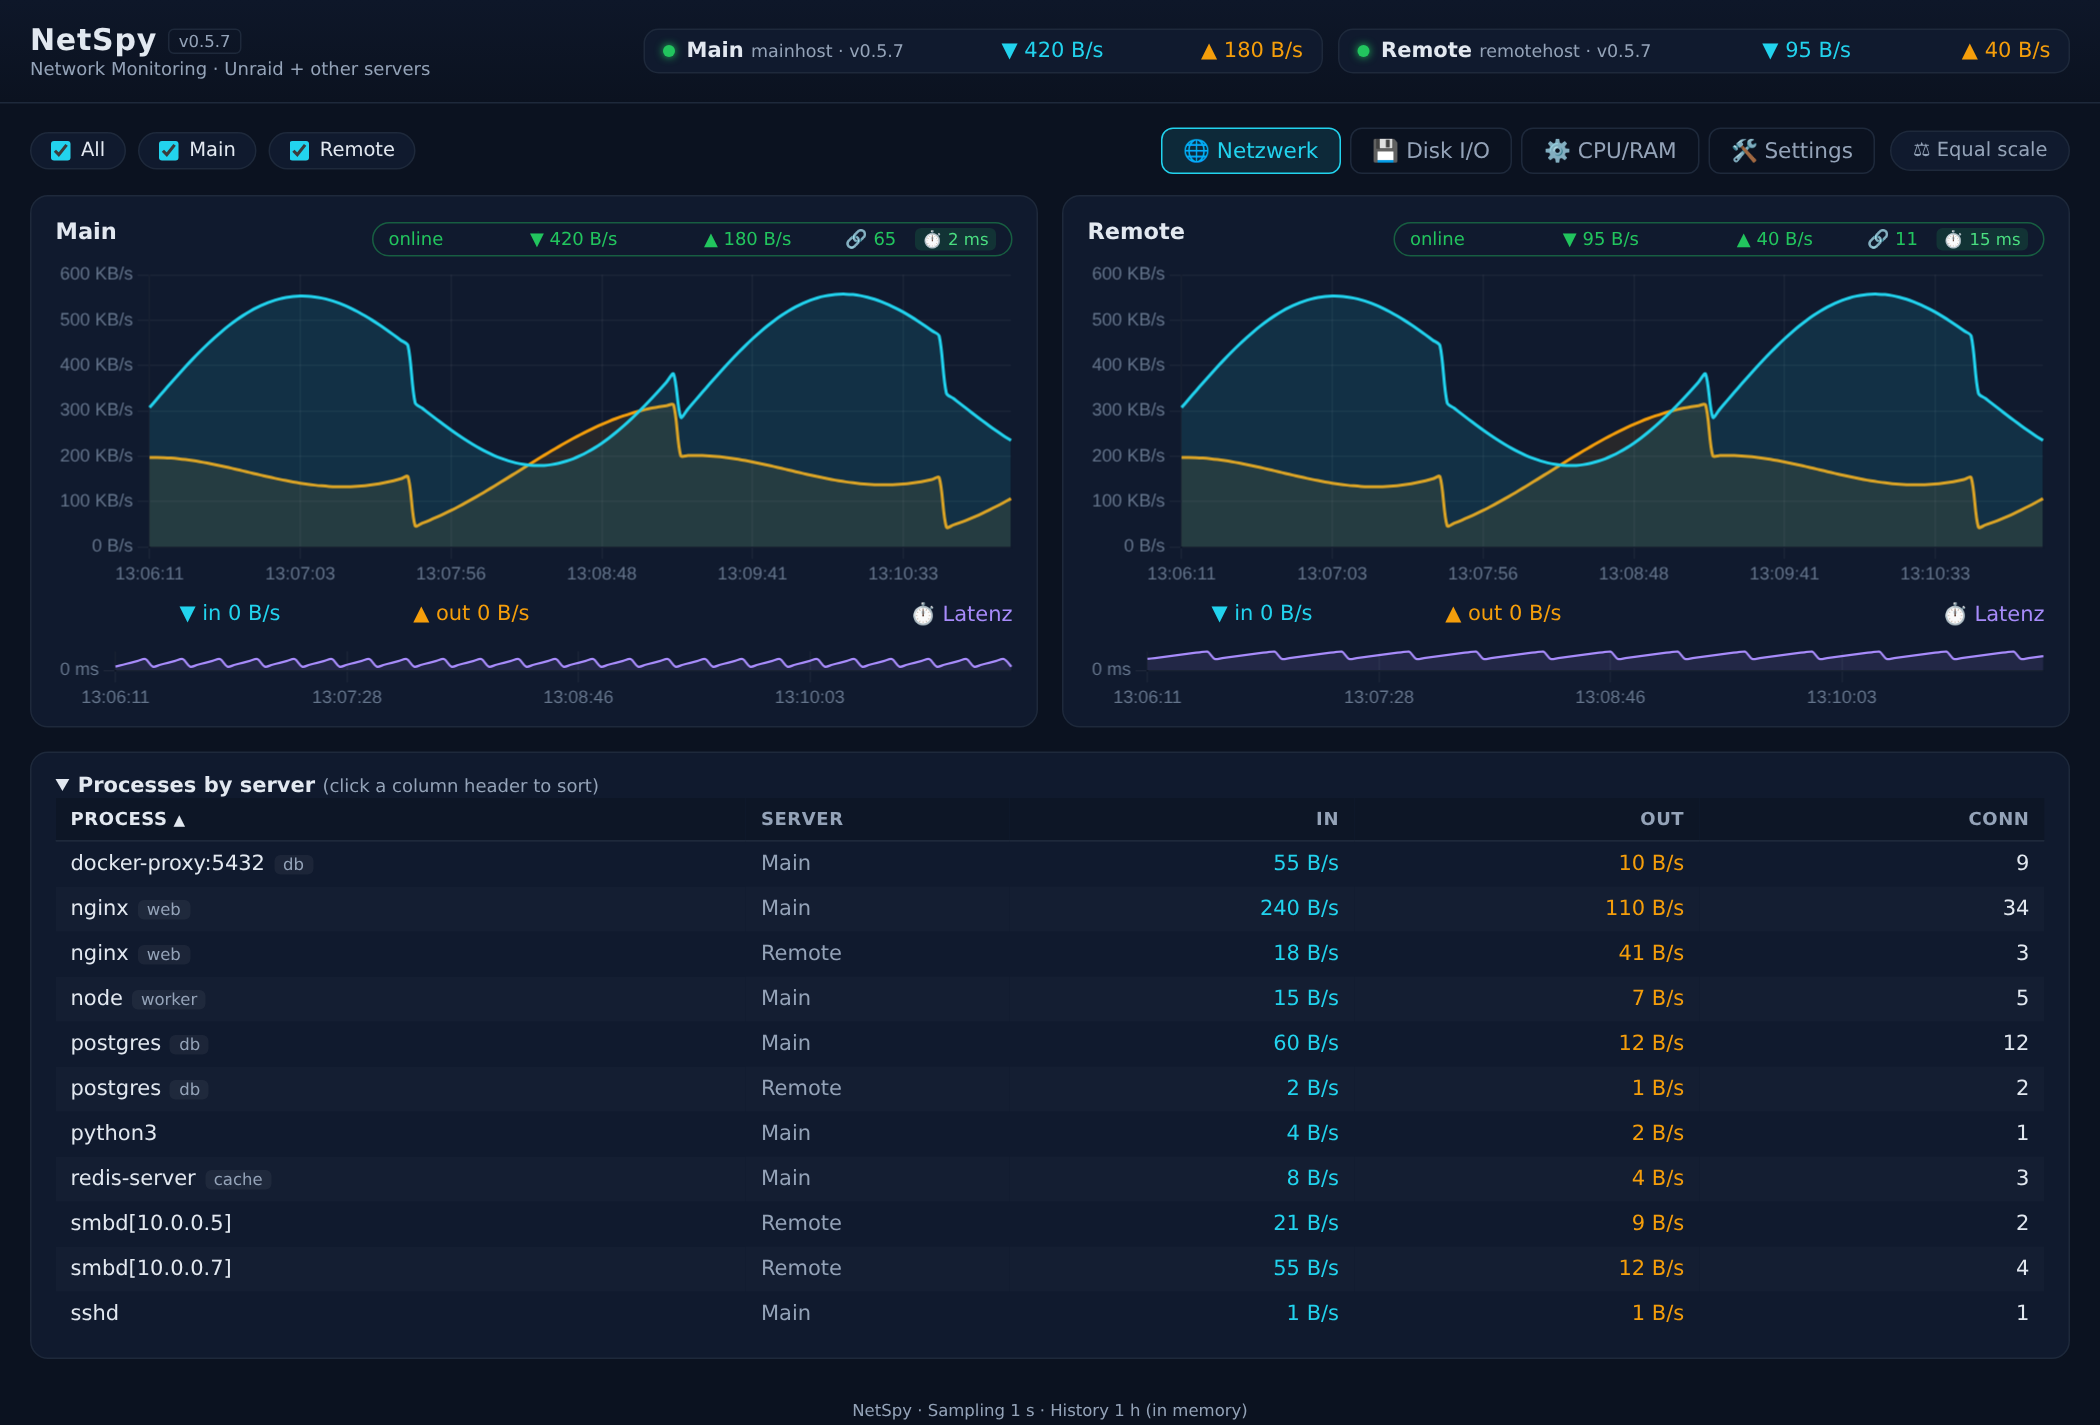
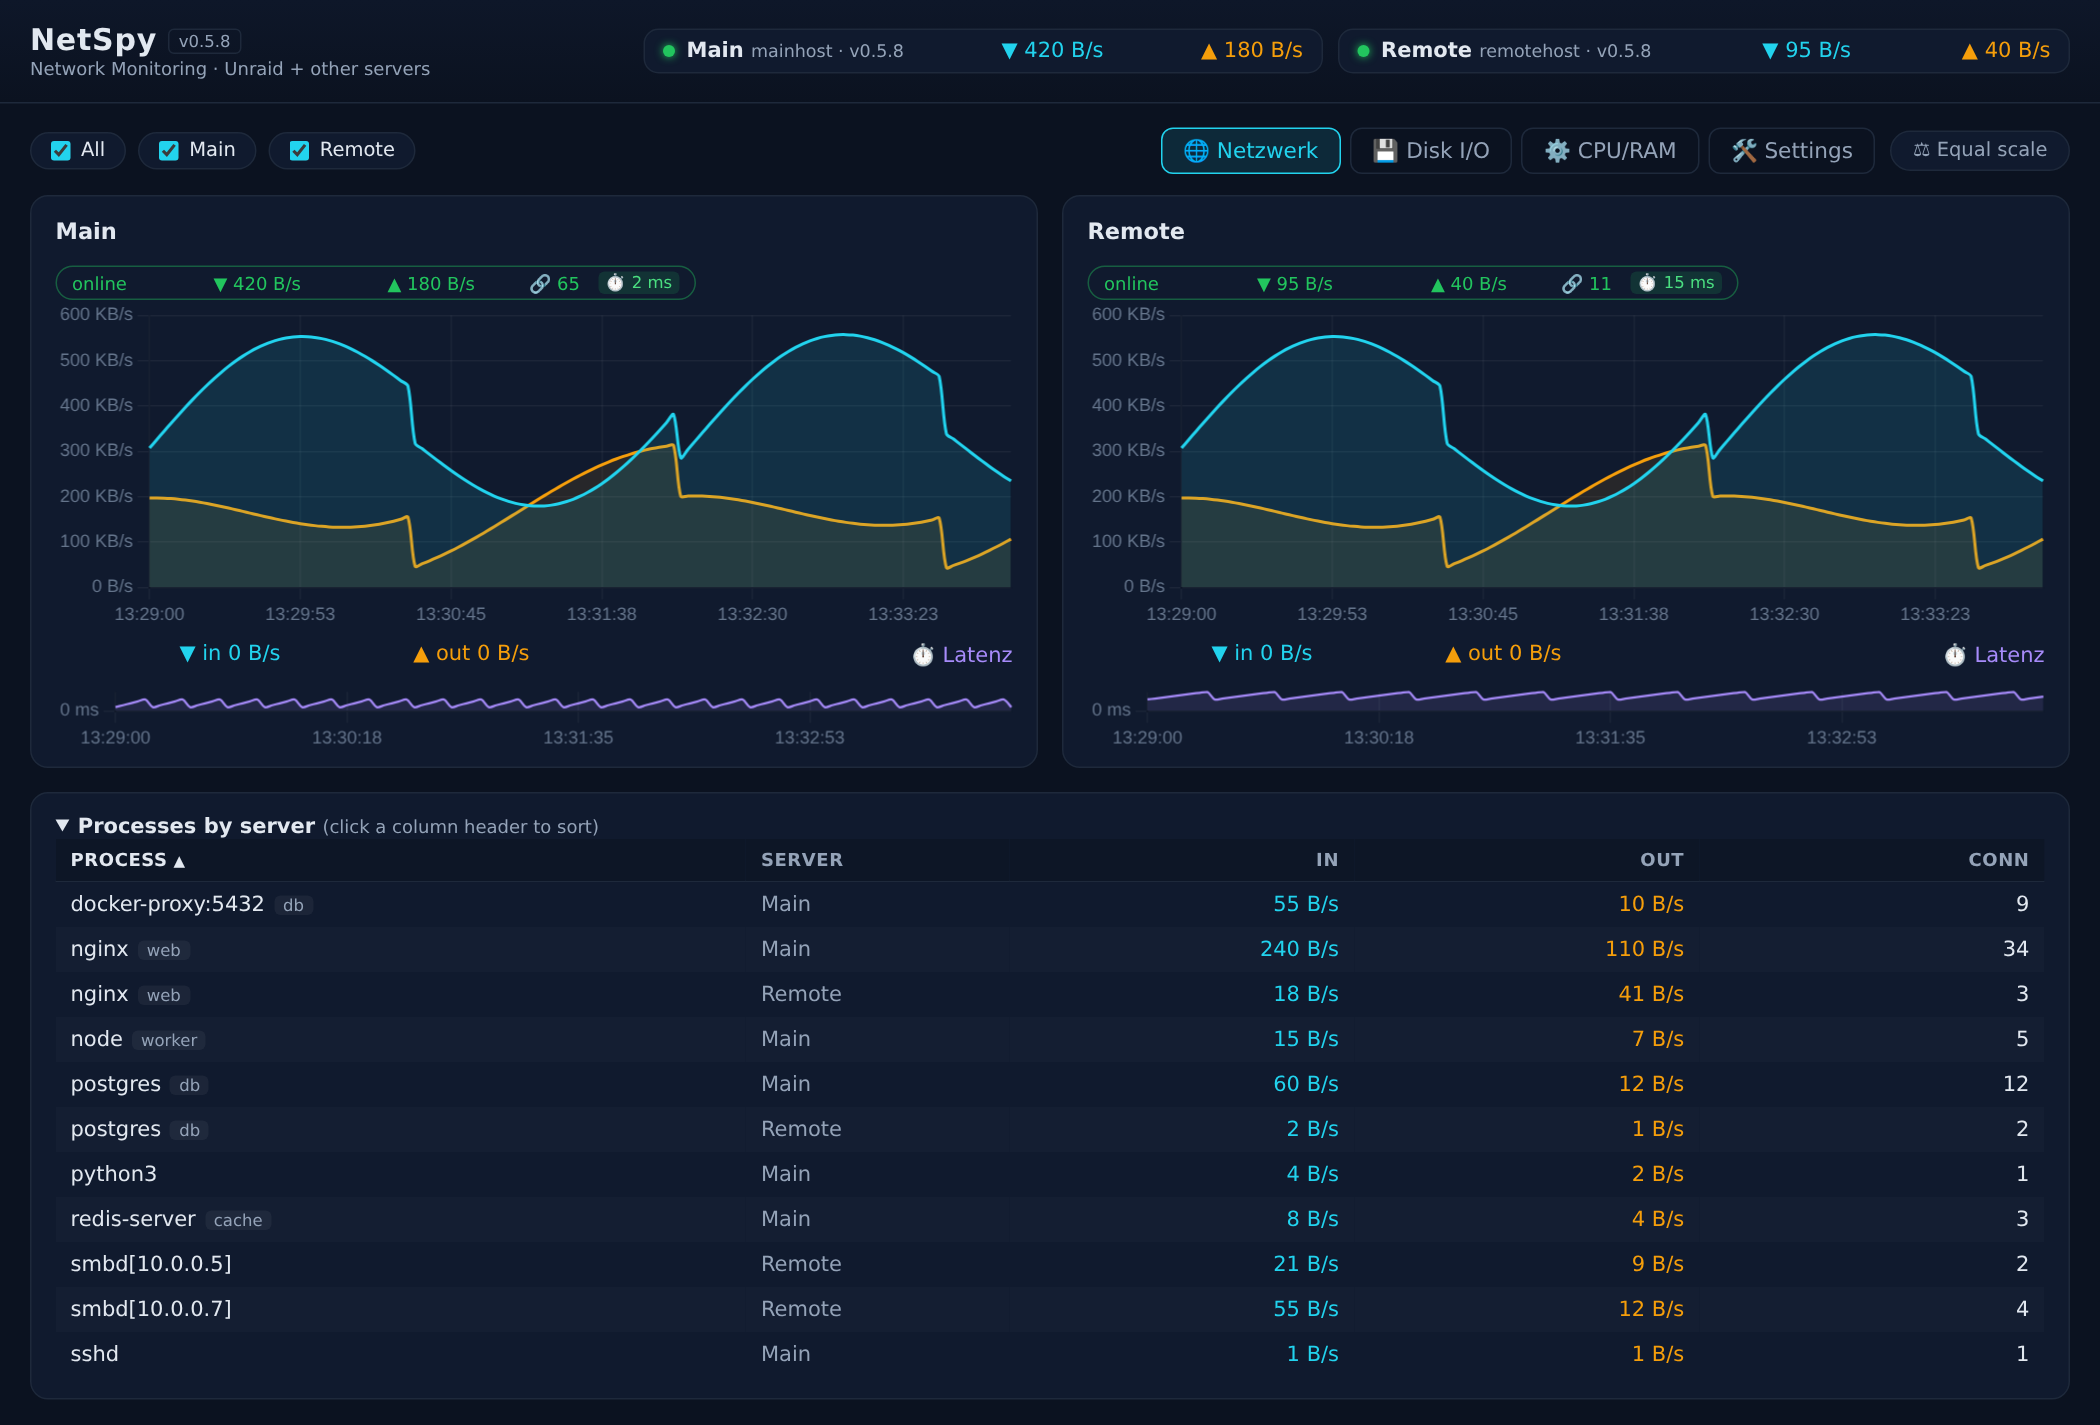
v0.5.8: Infozeile (Badge) steht jetzt UNTER dem Servernamen in den Grafikkarten (kein Zeilenumbruch bei langen Namen); README: Latency/Health in den Network-Tab integriert (kein eigener Reiter)

diff --git a/app/static/style.css b/app/static/style.css
@@ -61,7 +61,7 @@ main { padding: 16px 20px; max-width: 1400px; margin: 0 auto; }
 .hint { color: var(--muted); font-weight: 400; font-size: 12px; }
 
 .chartgrid { display: grid; grid-template-columns: repeat(auto-fit, minmax(420px, 1fr)); gap: 16px; }
-.charthead { display: flex; justify-content: space-between; align-items: center; }
+.charthead { display: flex; flex-direction: column; align-items: flex-start; gap: 4px; }
 .chartwrap { position: relative; height: 220px; }
 .chartlegend { display: flex; gap: 16px; margin-top: 8px; color: var(--muted); font-variant-numeric: tabular-nums; }
 .chartlegend .lg { width: 150px; text-align: right; white-space: nowrap; }

diff --git a/README.md b/README.md
@@ -19,6 +19,7 @@ Real-time monitoring of your servers in one dashboard: **per-interface, per-proc
 - **Connection counts** — active TCP connections per process (e.g. `docker-proxy:6379` → 🔗 47)
 - **Detail charts** — click a row for its 1 h history; hover shows the exact values of that moment
 - **Server filter chips** — toggle hosts in tables and charts
+- **Latency / health** — each server card shows its live poll response time (⏱ ms badge, green/yellow/red) plus a 5 min latency chart; a hanging agent becomes visible before it drops offline
 
 ### 💾 Disk I/O tab
 - Read/write per process from `/proc/<pid>/io` — real storage bytes **incl. CIFS/NFS** (SMB transfers show up on the reader)
@@ -26,10 +27,6 @@ Real-time monitoring of your servers in one dashboard: **per-interface, per-proc
 
 ### ⚙ CPU/RAM tab
 - CPU% and resident RAM per process, plus per-server host totals
-
-### 🩺 Latency / health
-- Live poll response time per server — ms badge (⏱, green/yellow/red) + 5 min latency chart
-- A hanging agent becomes visible before it drops offline
 
 ### 🛠 Settings page
 - Add/remove servers in the UI — stored as human-editable `servers.yaml`
